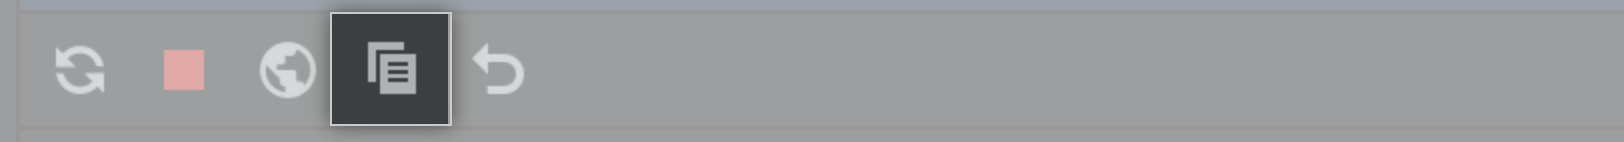
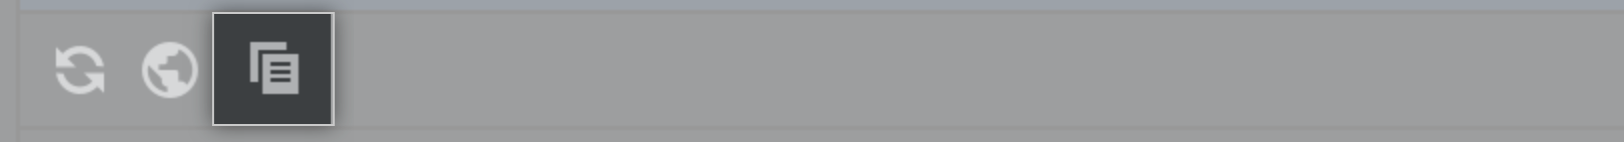
Remove mentions & screenshots of 2 buttons that were removed from the Codespaces extension for JetBrains (#32896)

Changed region(s): [[0.0616, 0.0282, 0.3387, 0.9296]]

diff --git a/content/codespaces/setting-up-your-project-for-codespaces/introduction-to-dev-containers.md b/content/codespaces/setting-up-your-project-for-codespaces/introduction-to-dev-containers.md
@@ -211,7 +211,7 @@ You can define default interface settings for {% data variables.product.prodname
 
 ## Applying configuration changes to a codespace
 
-Changes to a configuration will be applied the next time you create a codespace. However, if you're using a codespace in a web browser, in {% data variables.product.prodname_vscode_shortname %}, or in a JetBrains IDE, you can apply configuration changes to the current codespace by rebuilding the container.
+Changes to a configuration will be applied the next time you create a codespace. However, you can apply your changes to an existing codespace by rebuilding the container. You can do this within a codespace in the {% data variables.product.prodname_vscode_shortname %} web client or desktop application, or you can use {% data variables.product.prodname_cli %}.
 
 ### Rebuilding the dev container in the {% data variables.product.prodname_vscode_shortname %} web client or desktop application
 
@@ -224,15 +224,19 @@ Changes to a configuration will be applied the next time you create a codespace.
    - To fix the errors identified in the logs, update your `devcontainer.json` file.
    - To apply the changes, rebuild your container. 
 
-### Rebuilding the dev container in a JetBrains IDE
+### Using {% data variables.product.prodname_cli %} to rebuild a dev container
 
-{% data reusables.codespaces.jetbrains-open-codespace-plugin %}
-1. In the {% data variables.product.prodname_github_codespaces %} tool window, click the rebuild icon.
+If you've changed a dev container configuration outside of VS Code (for example, on {% data variables.product.prodname_dotcom_the_website %} or in a JetBrains IDE), you can use {% data variables.product.prodname_cli %} to rebuild the dev container for an existing codespace.
 
-   ![Screenshot of the rebuild button](/assets/images/help/codespaces/jetbrains-plugin-icon-rebuild.png)
+1. In a terminal, enter the following command.
 
-1. Click **Rebuild** when prompted to confirm that you want to rebuild the dev container. 
-1. Reopen the codespace in your JetBrains IDE.
+   ```
+   gh cs rebuild
+   ```
+
+   Your codespaces are listed.
+
+1. Use the arrow keys on your keyboard to highlight the required codespace, then press <kbd>Enter</kbd>.
 
 
 ## Further reading

diff --git a/content/codespaces/codespaces-reference/using-the-github-codespaces-plugin-for-jetbrains.md b/content/codespaces/codespaces-reference/using-the-github-codespaces-plugin-for-jetbrains.md
@@ -37,15 +37,9 @@ The icons at the top of the {% data variables.product.prodname_github_codespaces
 
 * **Refresh active codespace**
 
-  ![Screenshot of the refresh button](/assets/images/help/codespaces/jetbrains-plugin-icon-refresh-BAK.png)
+  ![Screenshot of the refresh button](/assets/images/help/codespaces/jetbrains-plugin-icon-refresh.png)
 
   Refresh the details in the {% data variables.product.prodname_github_codespaces %} tool window. For example, if you used {% data variables.product.prodname_cli %} to change the display name, you could click this button to show the new name.
-
-* **Disconnect and stop**
-
-  ![Screenshot of the stop button](/assets/images/help/codespaces/jetbrains-plugin-icon-stop.png)
-
-  Stop the codespace, stop the backend IDE on the remote machine, and close the local JetBrains client.
 
 * **Manage your codespaces from the web**
 
@@ -58,10 +52,3 @@ The icons at the top of the {% data variables.product.prodname_github_codespaces
   ![Screenshot of the log button](/assets/images/help/codespaces/jetbrains-plugin-icon-log.png)
 
   Open the codespace creation log in the editor window. For more information, see "[{% data variables.product.prodname_github_codespaces %} logs](/codespaces/troubleshooting/github-codespaces-logs)."
-
-* **Rebuild the dev container**
-
-  ![Screenshot of the rebuild button](/assets/images/help/codespaces/jetbrains-plugin-icon-rebuild.png)
-
-  Rebuild your codespace to apply changes you've made to the dev container configuration. The JetBrains client will close and you must reopen the codespace. For more information, see "[The codespace lifecycle](/codespaces/developing-in-codespaces/the-codespace-lifecycle#rebuilding-a-codespace)."
-

diff --git a/content/codespaces/developing-in-codespaces/stopping-and-starting-a-codespace.md b/content/codespaces/developing-in-codespaces/stopping-and-starting-a-codespace.md
@@ -57,10 +57,7 @@ Regardless of where you created or access your codespaces, you can view and mana
 
 {% jetbrains %}
 
-{% data reusables.codespaces.jetbrains-open-codespace-plugin %}
-1. In the {% data variables.product.prodname_github_codespaces %} tool window, click the stop icon.
-
-   ![Screenshot of the log button](/assets/images/help/codespaces/jetbrains-plugin-icon-stop.png)
+You can stop a codespace from the "Your codespaces" page (see [the web browser instructions](/codespaces/developing-in-codespaces/stopping-and-starting-a-codespace?tool=webui#stopping-a-codespace)) or by using {% data variables.product.prodname_cli %} (see [the CLI instructions](/codespaces/developing-in-codespaces/stopping-and-starting-a-codespace?tool=cli#stopping-a-codespace)).
 
 {% endjetbrains %}
 
